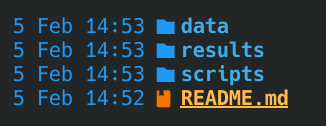
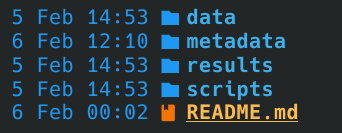
updated

diff --git a/Tareas_U2/plastome_phylogenomics/README.md b/Tareas_U2/plastome_phylogenomics/README.md
@@ -14,10 +14,12 @@ Dentro de la familia Bromeliaceae, la subfamilia más rica en especies es Tillan
 $ tree -d -L 2 .
 .
 ├── data
+├── metadata
 ├── results
 └── scripts
 
-4 directories
+5 directories
+
 ```
 
 ![Estructura de directorios](/misc/images/screenshot.png "Estructura directorios")
